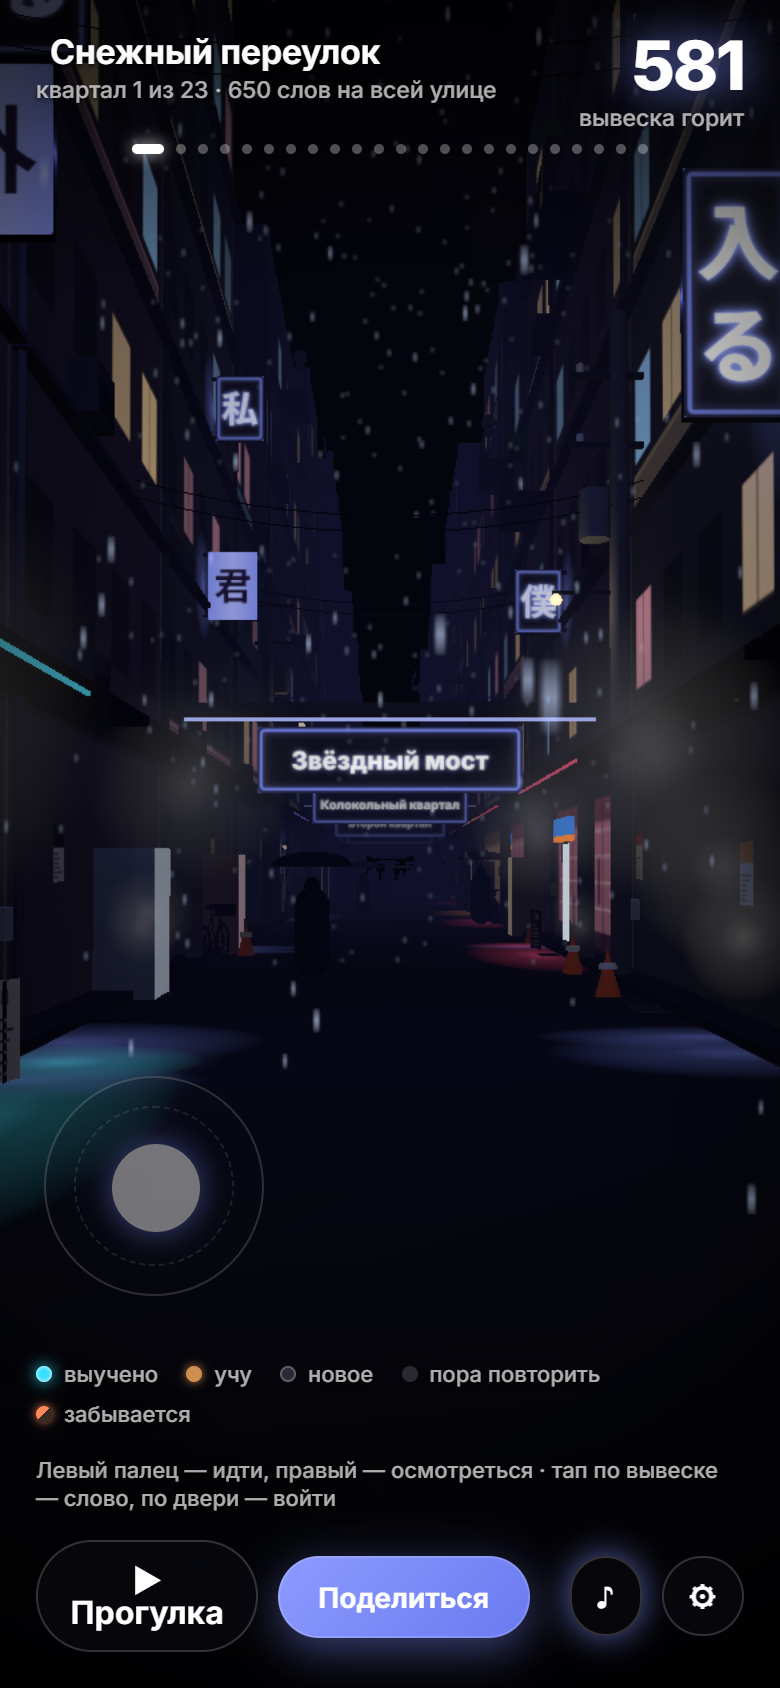
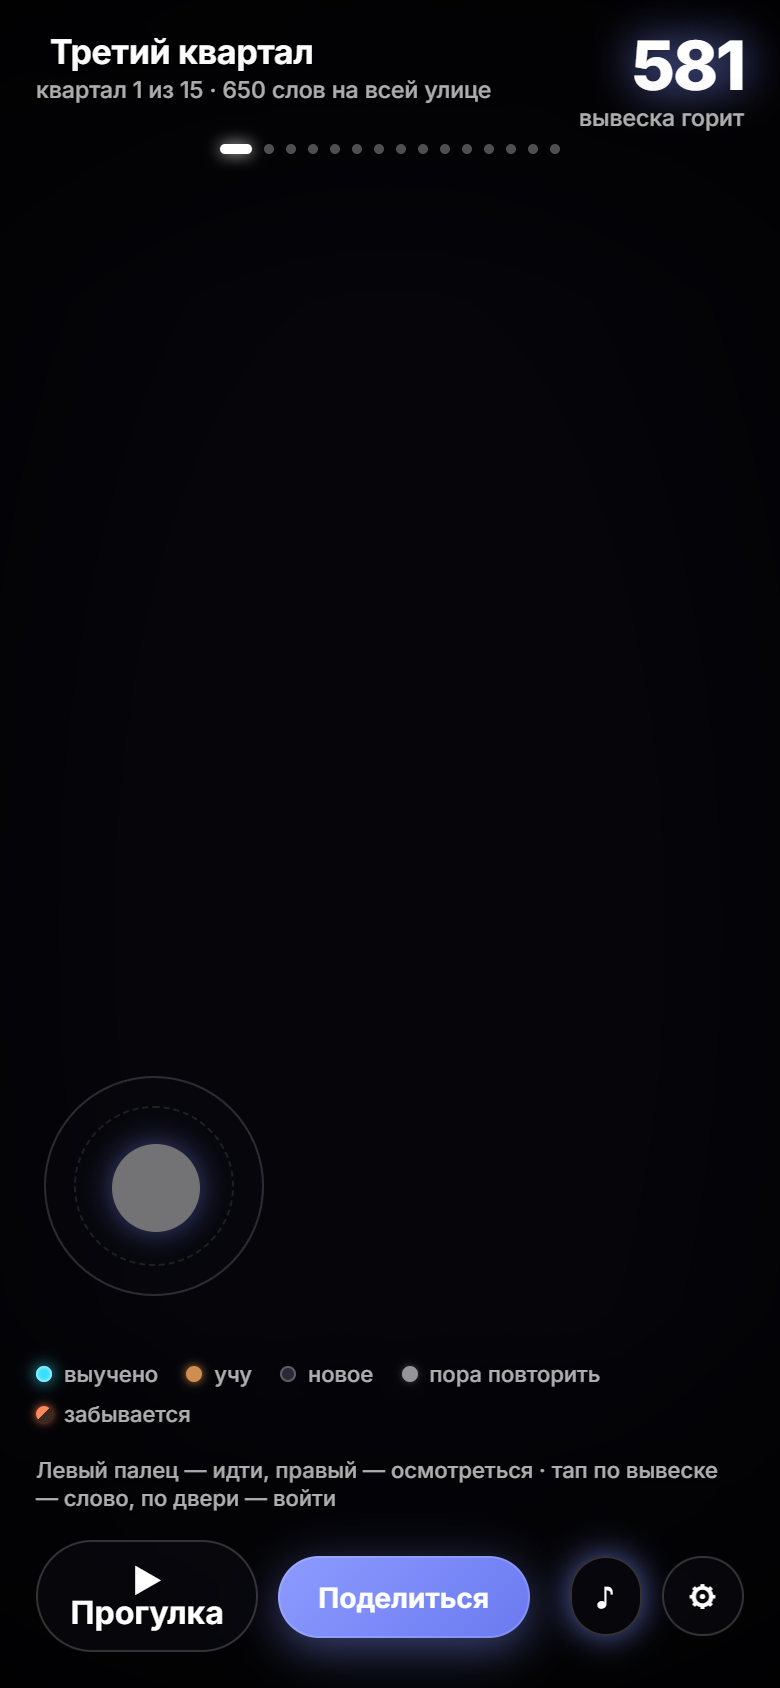
Улица слов: мелкие колоды сливаются в соседний квартал; цвет вывески по колоде, когда уровень JLPT неизвестен; JLPT грузится и для набора владельца

diff --git a/street/walk.html b/street/walk.html
@@ -405,7 +405,9 @@ const W2 = th.W / 2;
 
 // ---- данные ----
 let data, quarters = [], today = D.todayKey(), jlptMap = {};
-function colorFor(w) { const lvl = (data.jlpt[w.kanji] != null ? data.jlpt[w.kanji] : (jlptMap[w.kanji] || 0)) | 0; w._jlpt = lvl; return th.palette[lvl] || th.palette[0]; }
+// цвет: по JLPT; без уровня — по колоде, чтобы улица не была одноцветной
+const deckHue = {};
+function colorFor(w) { const lvl = (data.jlpt[w.kanji] != null ? data.jlpt[w.kanji] : (jlptMap[w.kanji] || 0)) | 0; w._jlpt = lvl; if (lvl) return th.palette[lvl]; const d = data.decks.find((x) => x.wordIds.indexOf(w.id) >= 0); const key = d ? d.name : (w.known ? 'known' : 'none'); if (!(key in deckHue)) deckHue[key] = Object.keys(deckHue).length; const cols = [th.palette[0], th.palette[2], th.palette[3], th.palette[4], th.palette[5], th.palette[1]]; return cols[deckHue[key] % cols.length]; }
 function litCount() { return data.words.filter((w) => w._state === 'lit' || w._state === 'warm' || w._state === 'worn').length; }
 
 // ---- раскладка кварталов вдоль улицы ----
@@ -1682,7 +1684,7 @@ function load() {
         camera.position.set(0, 1.6, 2); yaw = tYaw = 0; pitch = tPitch = 0.02; vel.set(0, 0, 0);
         ensureBlocks(); updateHud(true);
     };
-    if (source === 'real') D.loadJlpt().then((m) => { jlptMap = m || {}; go(); }); else go();
+    if (source === 'real' || data.source === 'owner') D.loadJlpt().then((m) => { jlptMap = m || {}; go(); }); else go();
 }
 
 function resize() {

diff --git a/street/walk.js b/street/walk.js
@@ -296,7 +296,9 @@ const W2 = th.W / 2;
 
 // ---- данные ----
 let data, quarters = [], today = D.todayKey(), jlptMap = {};
-function colorFor(w) { const lvl = (data.jlpt[w.kanji] != null ? data.jlpt[w.kanji] : (jlptMap[w.kanji] || 0)) | 0; w._jlpt = lvl; return th.palette[lvl] || th.palette[0]; }
+// цвет: по JLPT; без уровня — по колоде, чтобы улица не была одноцветной
+const deckHue = {};
+function colorFor(w) { const lvl = (data.jlpt[w.kanji] != null ? data.jlpt[w.kanji] : (jlptMap[w.kanji] || 0)) | 0; w._jlpt = lvl; if (lvl) return th.palette[lvl]; const d = data.decks.find((x) => x.wordIds.indexOf(w.id) >= 0); const key = d ? d.name : (w.known ? 'known' : 'none'); if (!(key in deckHue)) deckHue[key] = Object.keys(deckHue).length; const cols = [th.palette[0], th.palette[2], th.palette[3], th.palette[4], th.palette[5], th.palette[1]]; return cols[deckHue[key] % cols.length]; }
 function litCount() { return data.words.filter((w) => w._state === 'lit' || w._state === 'warm' || w._state === 'worn').length; }
 
 // ---- раскладка кварталов вдоль улицы ----
@@ -1573,7 +1575,7 @@ function load() {
         camera.position.set(0, 1.6, 2); yaw = tYaw = 0; pitch = tPitch = 0.02; vel.set(0, 0, 0);
         ensureBlocks(); updateHud(true);
     };
-    if (source === 'real') D.loadJlpt().then((m) => { jlptMap = m || {}; go(); }); else go();
+    if (source === 'real' || data.source === 'owner') D.loadJlpt().then((m) => { jlptMap = m || {}; go(); }); else go();
 }
 
 function resize() {

diff --git a/street/street-app.js b/street/street-app.js
@@ -21,10 +21,16 @@ window.__street = street; // для харнеса скриншотов
 
 let data = null, quarters = [], qi = 0, today = D.todayKey();
 
+const deckHue = {};
 function colorFor(word, jlptMap) {
     const lvl = (data.jlpt[word.kanji] != null ? data.jlpt[word.kanji] : (jlptMap[word.kanji] || 0)) | 0;
     word._jlpt = lvl;
-    return theme.palette[lvl] || theme.palette[0];
+    if (lvl) return theme.palette[lvl];
+    // без уровня — цвет по колоде
+    const d = data.decks.find((x) => x.wordIds.indexOf(word.id) >= 0); const key = d ? d.name : (word.known ? 'known' : 'none');
+    if (!(key in deckHue)) deckHue[key] = Object.keys(deckHue).length;
+    const cols = [theme.palette[0], theme.palette[2], theme.palette[3], theme.palette[4], theme.palette[5], theme.palette[1]];
+    return cols[deckHue[key] % cols.length];
 }
 
 function prepare(jlptMap) {
@@ -40,7 +46,7 @@ function load() {
         toast('В этом браузере нет слов — показан встроенный набор');
         data = D.buildDemo(); source = 'demo';
     }
-    if (source === 'real') D.loadJlpt().then(prepare); else prepare({});
+    if (source === 'real' || data.source === 'owner') D.loadJlpt().then(prepare); else prepare({});
 }
 
 function litCount() { return data.words.filter((w) => w._state === 'lit' || w._state === 'warm' || w._state === 'worn').length; }

diff --git a/street/street-data.js b/street/street-data.js
@@ -138,8 +138,15 @@ function buildQuarters(data, capacity) {
         push(d.name || 'Колода', d.emoji || '', ws);
     });
     push('Без колоды', '🌙', data.words.filter((w) => !used.has(w.id)));
-    if (!quarters.length) quarters.push({ name: 'Пустая улица', emoji: '🌙', words: [] });
-    return quarters;
+    // крошечные колоды (серия с 2–5 словами) сливаются с соседями, чтобы квартал не был огрызком
+    const MIN = 8, merged = [];
+    quarters.forEach((q) => {
+        const last = merged[merged.length - 1];
+        if (last && (last.words.length < MIN || q.words.length < MIN) && last.words.length + q.words.length <= capacity) { last.words = last.words.concat(q.words); last.name = last.name + ' + ' + q.name; }
+        else merged.push({ name: q.name, emoji: q.emoji, words: q.words.slice() });
+    });
+    if (!merged.length) merged.push({ name: 'Пустая улица', emoji: '🌙', words: [] });
+    return merged;
 }
 
 window.StreetData = { buildDemo, loadReal, loadJlpt, buildQuarters, wordState, todayKey, lsJson };
